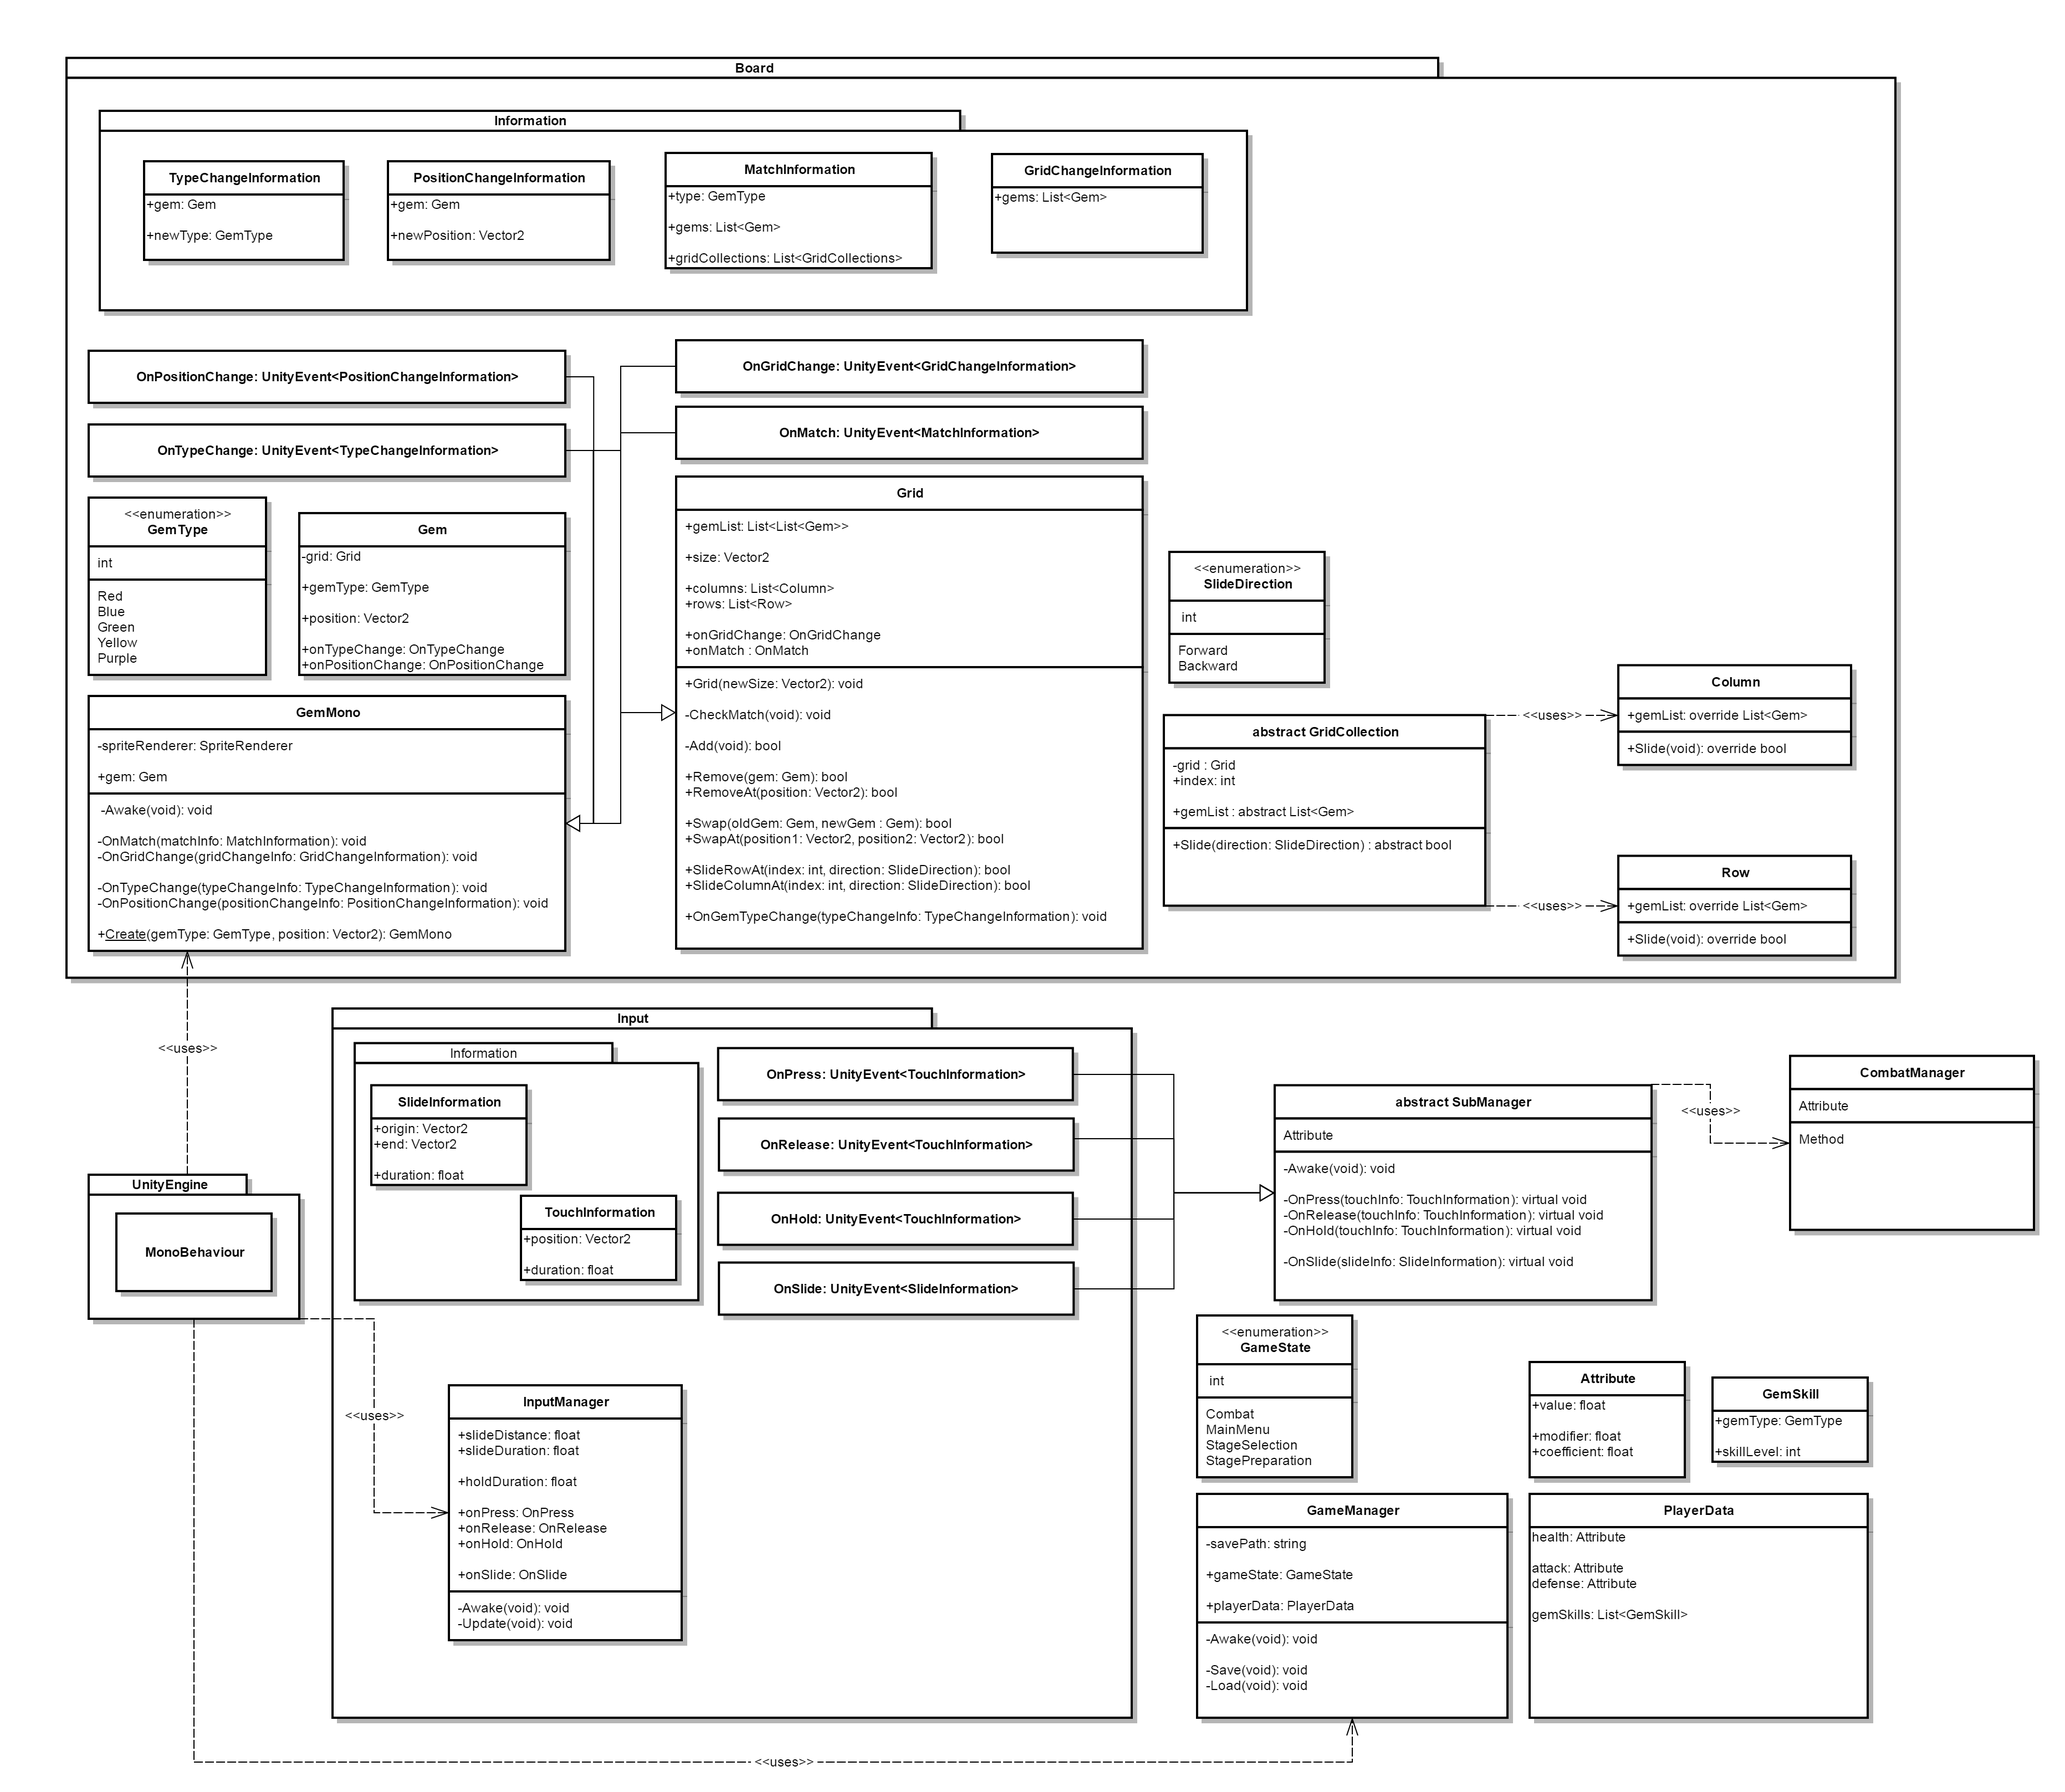
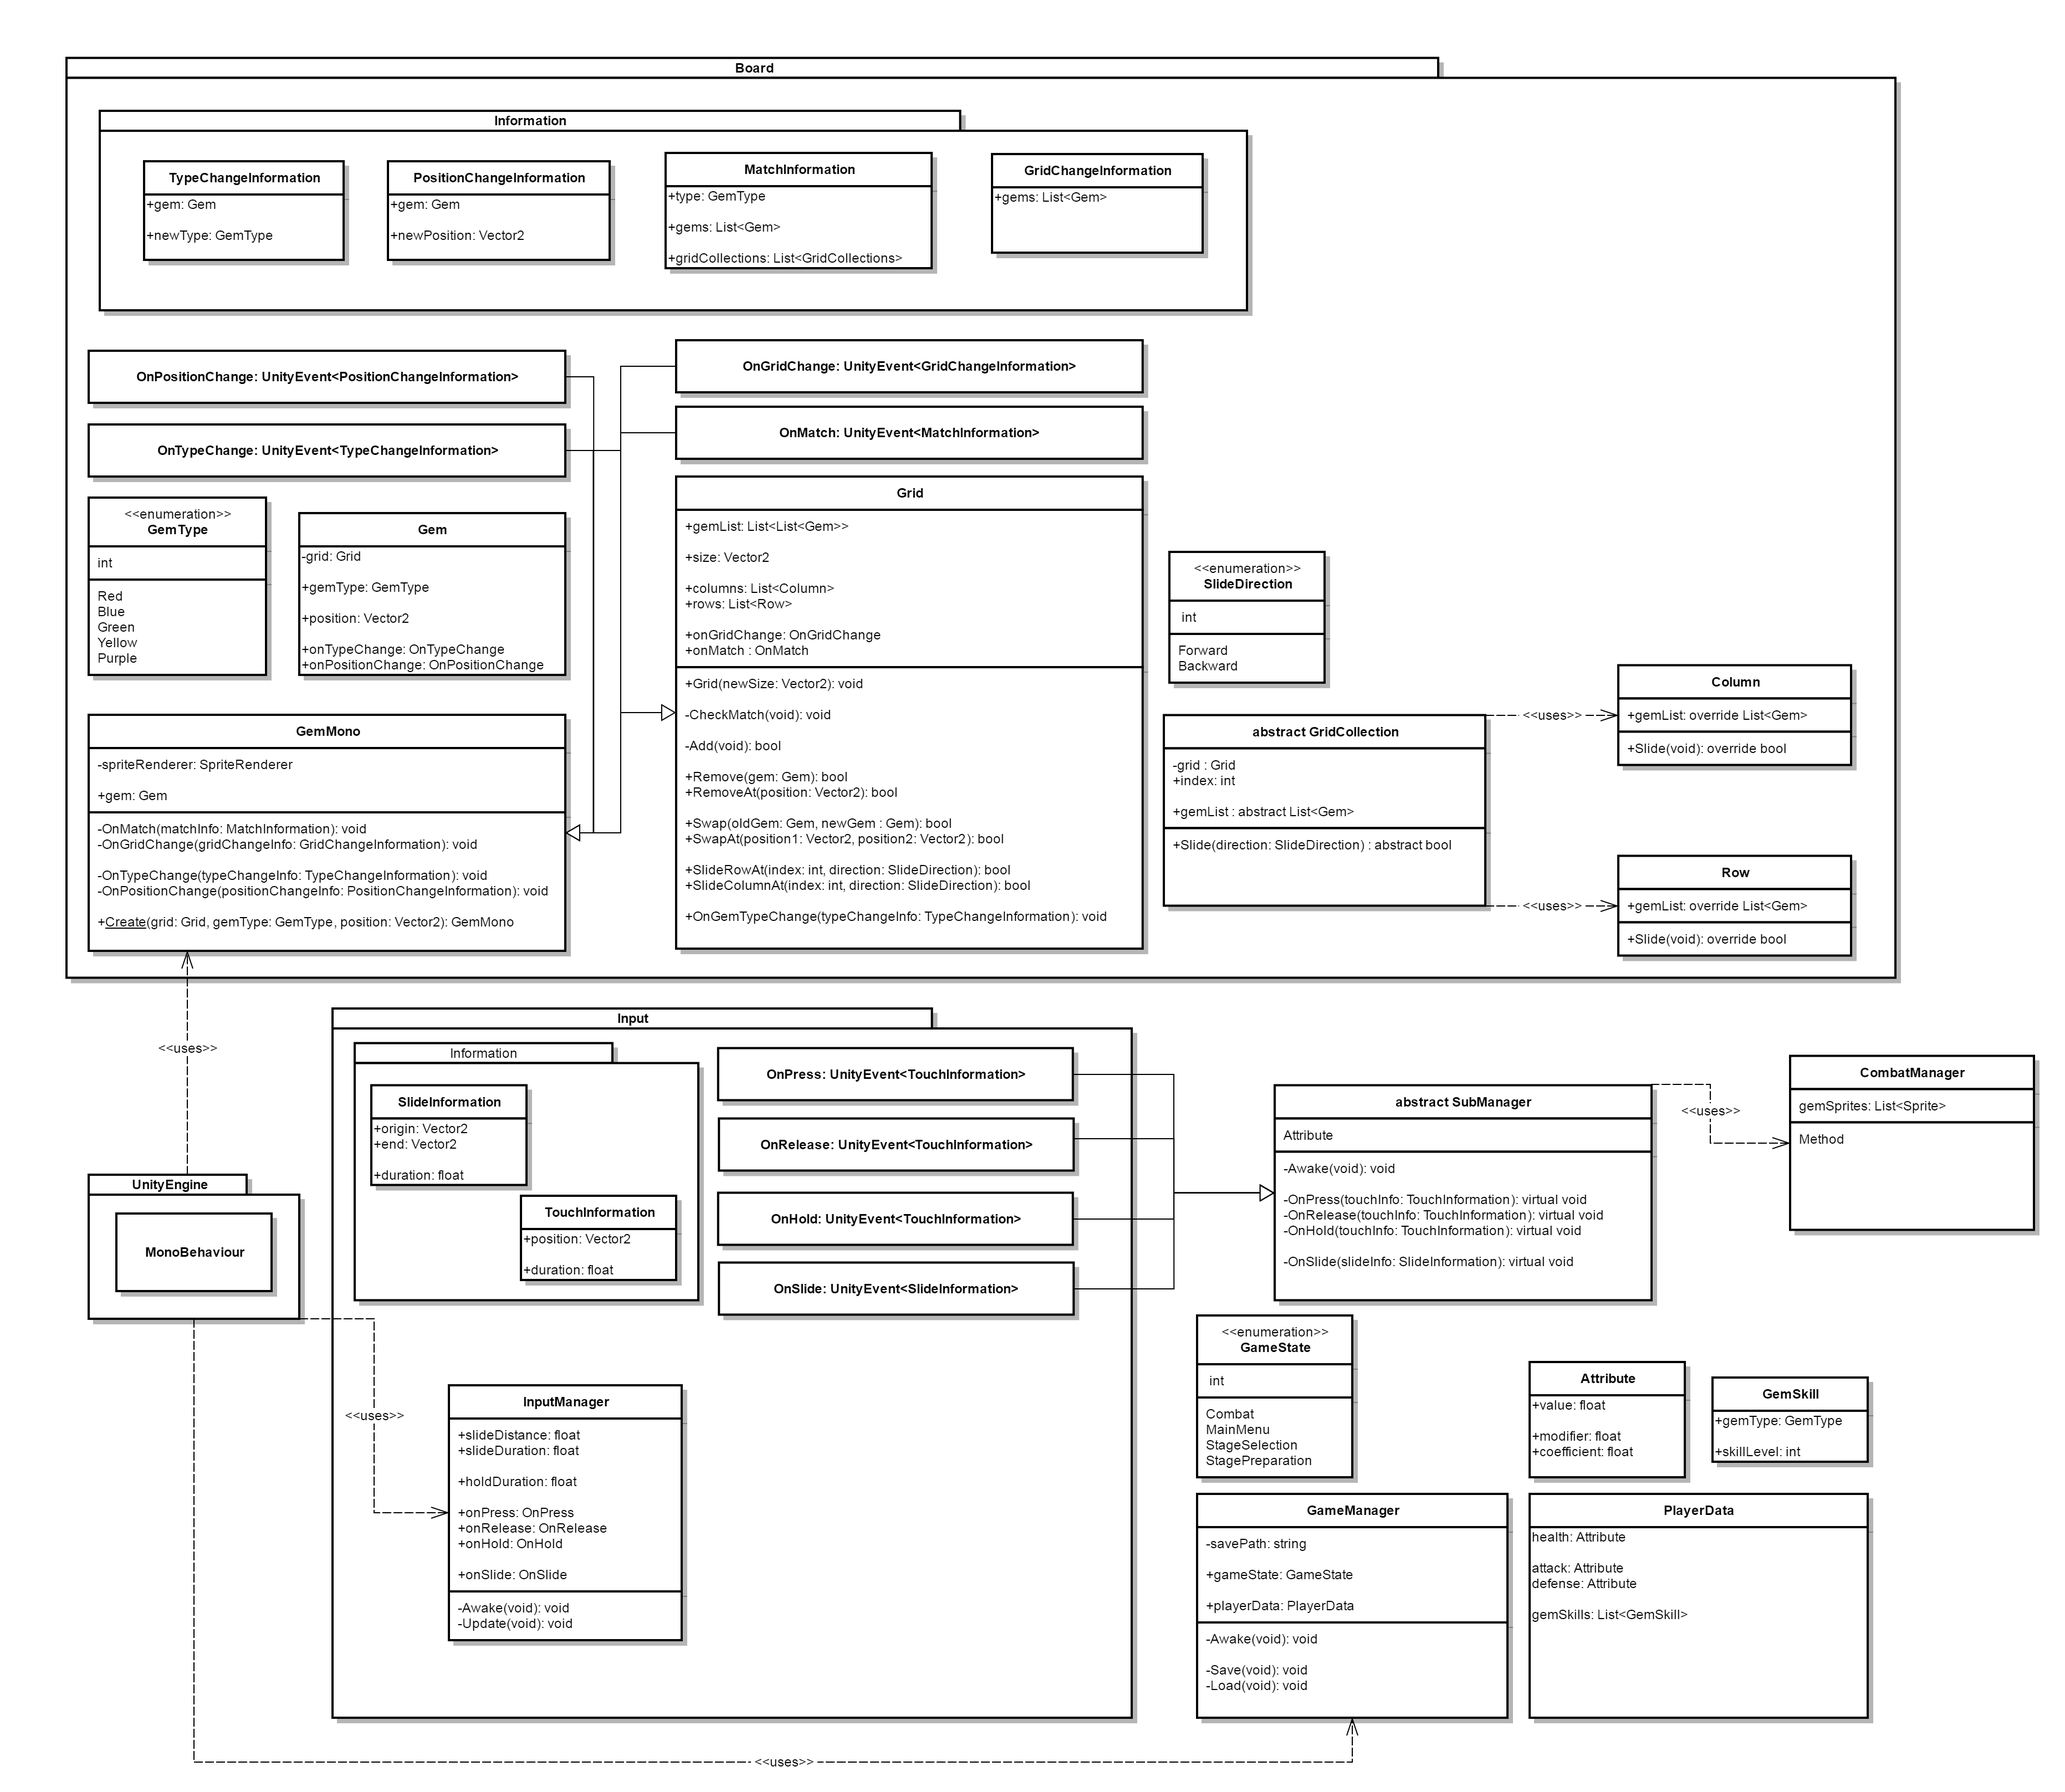
gemSprites UML
Added gemSprites to the UML for CombatManager

Added a reference to the grid as a parameter for create function in
GemMono.cs
Subscribed to relevant events when creating a new Mono in GemMono.cs
Removed the Awake function in GemMono.cs

Added public acess to delegates for OnMatch and OnGridChange in Grid.cs

Changed region(s): [[0.0311, 0.3748, 0.2491, 0.5309]]

diff --git a/Assets/Scripts/Board/GemMono.cs b/Assets/Scripts/Board/GemMono.cs
@@ -1,5 +1,7 @@
 namespace Board
 {
+    using System;
+
     using UnityEngine;
 
     using Information;
@@ -26,13 +28,36 @@
 
         private void OnTypeChange(TypeChangeInformation typeChangeInfo)
         {
+            // This should not happen because we only subscribe to the gem we care about but still...
+            if (typeChangeInfo.gem != gem)
+                return;
+
             //TODO: Update sprite based on new type
+            switch (typeChangeInfo.newType)
+            {
+            case GemType.Red:
+                break;
+
+            case GemType.Blue:
+                break;
+
+            case GemType.Green:
+                break;
+
+            case GemType.Yellow:
+                break;
+
+            case GemType.Purple:
+                break;
+
+            default:
+                throw new ArgumentOutOfRangeException();
+            }
         }
         private void OnPositionChange(PositionChangeInformation positionChangeInfo)
         {
             //TODO: Animate to new position
         }
-
 
         private void OnMatch(MatchInformation matchInfo)
         {
@@ -43,10 +68,17 @@
             //TODO: Check to see if this gem was changed in the grid
         }
 
-        public static GemMono Create(GemType gemType, Vector2 position)
+        public static GemMono Create(Grid grid, GemType gemType, Vector2 position)
         {
             var newGemMono = new GameObject().AddComponent<GemMono>();
+
+            grid.onMatch.AddListener(newGemMono.OnMatch);
+            grid.onGridChange.AddListener(newGemMono.OnGridChange);
+
             newGemMono.gem = new Gem { gemType = gemType, position = position };
+
+            newGemMono.gem.onTypeChange.AddListener(newGemMono.OnTypeChange);
+            newGemMono.gem.onPositionChange.AddListener(newGemMono.OnPositionChange);
 
             return newGemMono;
         }

diff --git a/Assets/Scripts/Board/Gem.cs b/Assets/Scripts/Board/Gem.cs
@@ -47,8 +47,7 @@
 
                 m_GemType = value;
 
-                //TODO: Fill out class info when available
-                m_OnTypeChange.Invoke(new TypeChangeInformation());
+                m_OnTypeChange.Invoke(new TypeChangeInformation { gem = this, newType = value });
             }
         }
 
@@ -62,8 +61,7 @@
 
                 m_Position = value;
 
-                //TODO: Fill out class info when available
-                m_OnPositionChange.Invoke(new PositionChangeInformation());
+                m_OnPositionChange.Invoke(new PositionChangeInformation { gem = this, newPosition = value });
             }
         }
 

diff --git a/Assets/Scripts/Board/Grid.cs b/Assets/Scripts/Board/Grid.cs
@@ -36,6 +36,9 @@
 
         public Vector2 size { get { return m_Size; } private set { m_Size = value; } }
 
+        public OnMatch onMatch { get { return m_OnMatch; } }
+        public OnGridChange onGridChange { get { return m_OnGridChange; } }
+
         private Grid() { }
         public Grid(Vector2 newSize)
         {
